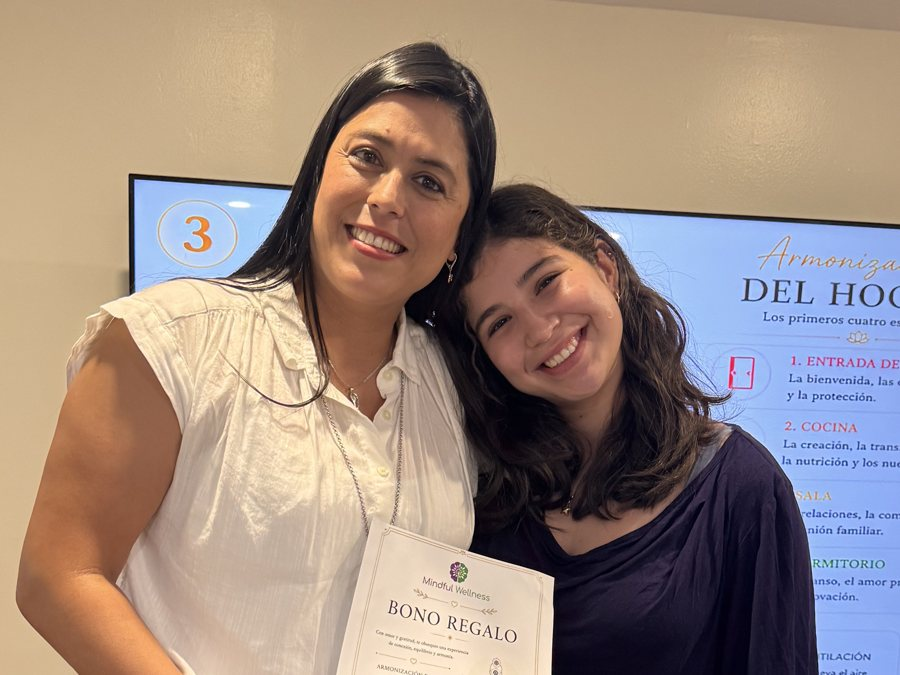
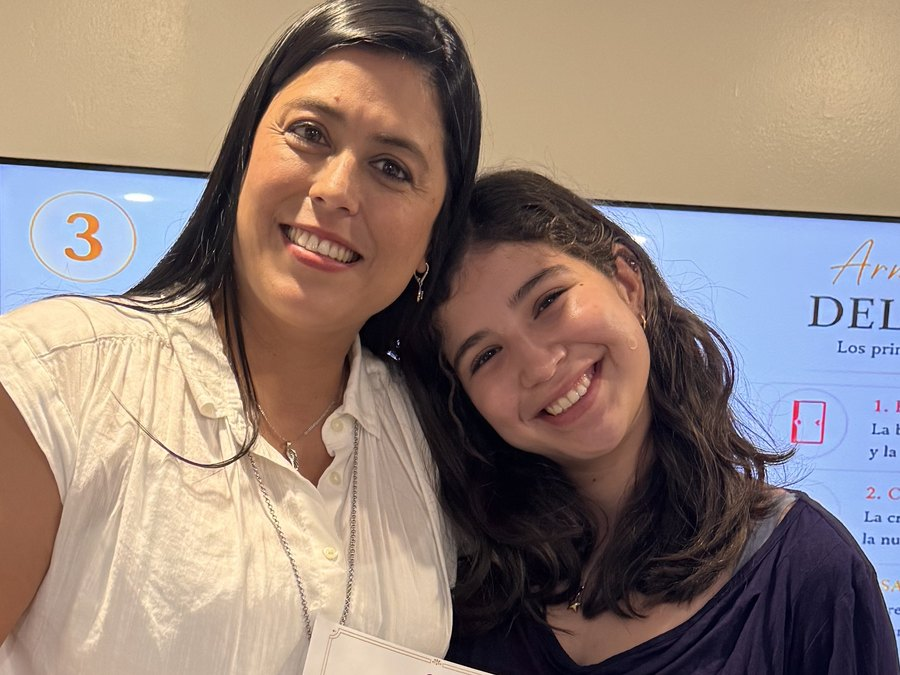
Centrar las fotos de gratitud y cuidado personal
Claude-Session: https://claude.ai/code/session_01Cgv7VAPRJXqoLqbii8kQbE

diff --git a/florecer/index.html b/florecer/index.html
@@ -256,7 +256,7 @@
     <h2>Una tarde para florecer</h2>
     <p class="intro">Detrás de cada una de nosotras hay una mujer que creyó en ti, te escuchó o te sostuvo cuando más lo necesitabas. Esta vez la traes contigo.</p>
     <div class="pillars">
-      <div class="pillar"><img src="gratitud.jpg" alt="Dos mujeres abrazadas celebrando en un evento de Mindful Wellness" loading="lazy" style="object-position:50% 30%"><h3>Gratitud</h3><p>Un homenaje a tu invitada: ella viene como tu regalo de gratitud.</p></div>
+      <div class="pillar"><img src="gratitud.jpg" alt="Dos mujeres abrazadas celebrando en un evento de Mindful Wellness" loading="lazy" style="object-position:50% 50%"><h3>Gratitud</h3><p>Un homenaje a tu invitada: ella viene como tu regalo de gratitud.</p></div>
       <div class="pillar"><img src="conexion.jpg" alt="Mujeres conversando alrededor de la mesa en un encuentro de Mindful Wellness" loading="lazy" style="object-position:50% 40%"><h3>Conexión</h3><p>Mujeres reales, historias reales, haciendo la diferencia.</p></div>
       <div class="pillar"><img src="cuidado.jpg" alt="Hortensias blancas y una taza en un evento de bienestar" loading="lazy" style="object-position:50% 50%"><h3>Cuidado personal</h3><p>Venir y compartir es parte de tu bienestar: una forma de agradecerte por todo lo que has avanzado este año.</p></div>
     </div>
